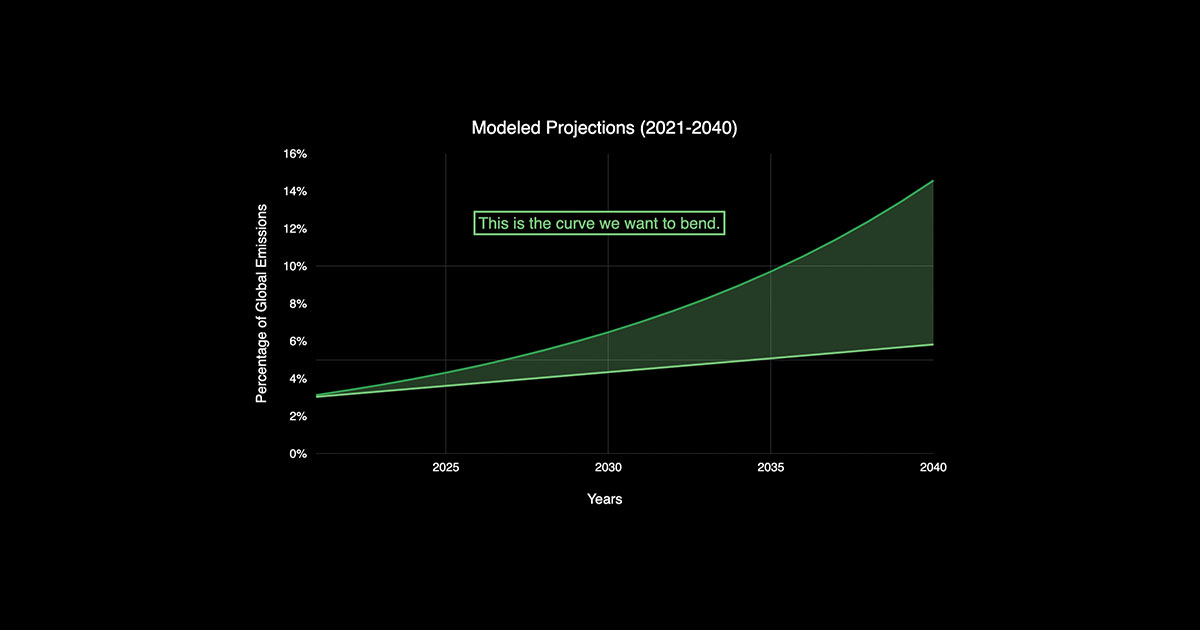
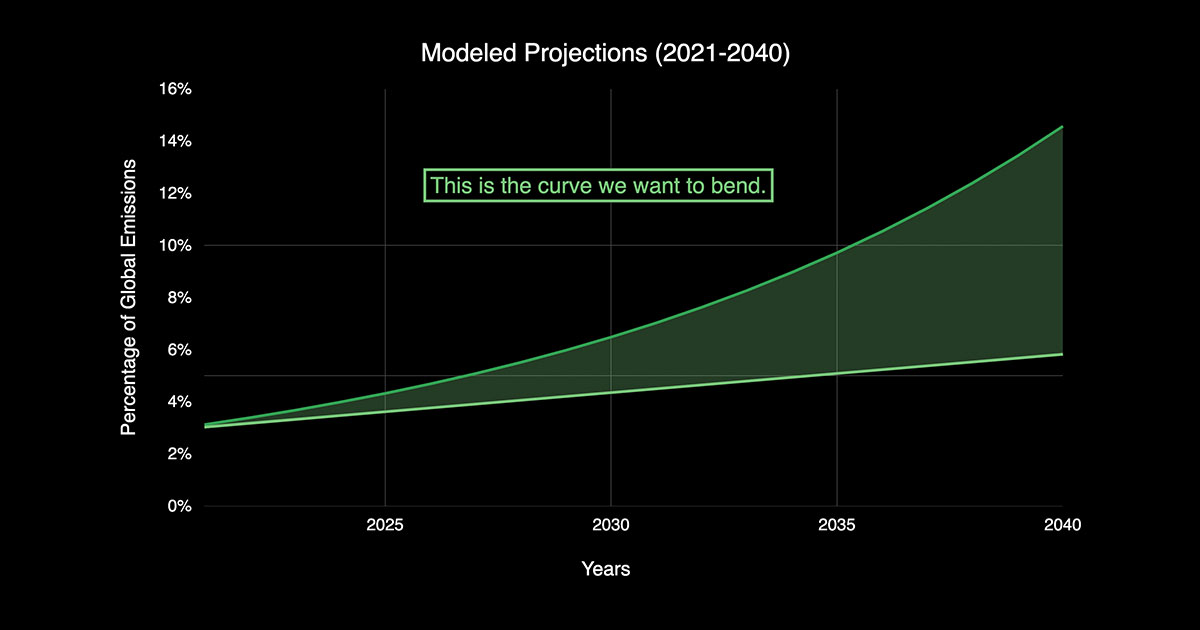
Make text-block responsive

diff --git a/assets/css/style.css b/assets/css/style.css
@@ -1483,6 +1483,8 @@ header img {
   .text-block,
   .asset-block {
     max-width: 100%;
+    width: 100%;
+    padding: 0 10px;
   }
   .axis text {
     font-size: 10px;
